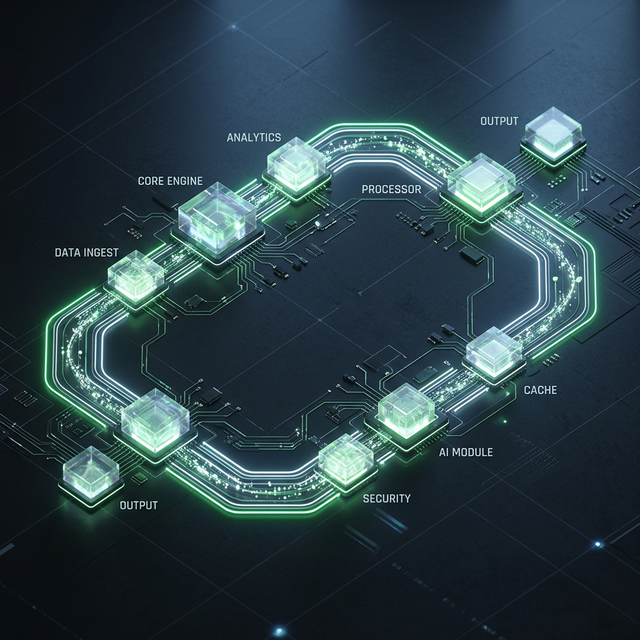
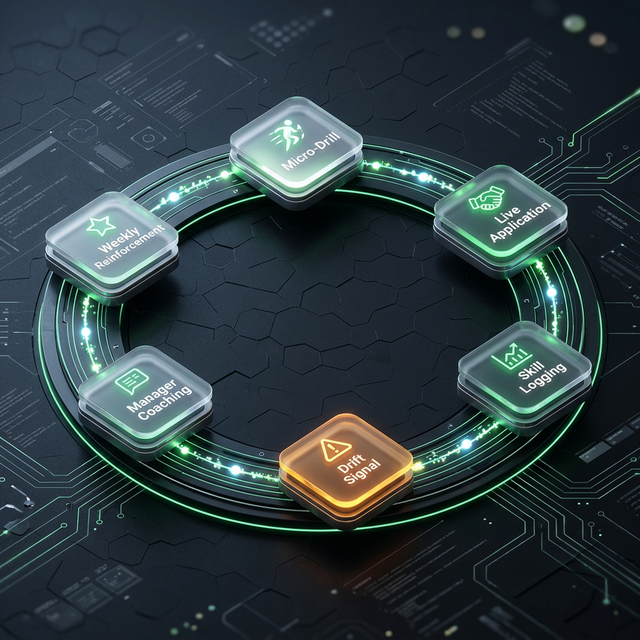
UI: Finalized reinforcement system with 3D nodes and integrated logic

diff --git a/src/pages/Home.tsx b/src/pages/Home.tsx
@@ -1,6 +1,6 @@
 import React, { useState } from 'react';
 import { motion, AnimatePresence } from 'framer-motion';
-import { ChevronRight } from 'lucide-react';
+import { ChevronRight, AlertTriangle } from 'lucide-react';
 import { Link } from 'react-router-dom';
 import Navigation from '../components/Navigation';
 import Footer from '../components/Footer';
@@ -326,6 +326,10 @@ const Home: React.FC = () => {
                             Training events don’t<br />create <span style={{ color: 'rgba(255,255,255,0.2)' }}>consistency.</span>
                         </motion.h2>
                         <h2 style={{ fontSize: 'clamp(3rem, 6vw, 5.5rem)', color: 'var(--logo-green)', marginTop: '0.8rem' }}>Reinforcement does.</h2>
+                        <p style={{ marginTop: '2.5rem', color: 'rgba(255,255,255,0.6)', fontSize: '1.2rem', letterSpacing: '0.01em', maxWidth: '850px', margin: '2.5rem auto 0', lineHeight: 1.5 }}>
+                            Consistency is not a personality trait. <br />
+                            <span style={{ color: '#fff', fontWeight: 600 }}>It is engineered through repetition, measurement, and correction.</span>
+                        </p>
                     </div>
 
                     <div className="mobile-stack" style={{ display: 'grid', gridTemplateColumns: 'repeat(auto-fit, minmax(320px, 1fr))', gap: '4rem', alignItems: 'start' }}>
@@ -333,12 +337,12 @@ const Home: React.FC = () => {
                             <div style={{ position: 'absolute', top: '0', left: '0', width: '100%', height: '100%', background: 'radial-gradient(circle at 50% 50%, rgba(102, 184, 72, 0.1) 0%, transparent 70%)', filter: 'blur(40px)', zIndex: 1 }} />
                             <div style={{ position: 'relative', zIndex: 10, padding: '1.5rem', border: '1px solid rgba(255,255,255,0.1)', background: 'rgba(255,255,255,0.02)', backdropFilter: 'blur(5px)' }}>
                                 <p style={{ fontSize: '0.62rem', fontWeight: 800, color: 'rgba(255,255,255,0.4)', textTransform: 'uppercase', letterSpacing: '0.2em', marginBottom: '1.5rem' }}>
-                                    System Architecture // Control Loop v3.2
+                                    System Architecture // The Reinforcement System v4.0
                                 </p>
                                 <img
                                     src="/reinforcement-system.png"
-                                    alt="The Reinforcement System high-fidelity 3D architecture"
-                                    style={{ width: '100%', display: 'block', borderRadius: '4px', filter: 'contrast(1.1) brightness(1.1)' }}
+                                    alt="The Reinforcement System: Micro-Drill, Live Application, Skill Logging, Drift Signal, Manager Coaching, and Weekly Reinforcement loop"
+                                    style={{ width: '100%', display: 'block', borderRadius: '4px', filter: 'contrast(1.05) brightness(1.05)' }}
                                 />
                             </div>
                         </div>
@@ -353,13 +357,16 @@ const Home: React.FC = () => {
                             </div>
                             <div style={{ display: 'flex', flexDirection: 'column', gap: '1.4rem' }}>
                                 {[
-                                    { title: "Daily Execution Layer", body: "Micro-drills and live-floor reps reinforce greeting, discovery, handoff, and follow-up standards." },
-                                    { title: "Behavior Logging Layer", body: "Each completed rep is time-stamped so managers can see completion, consistency, and role-level gaps." },
-                                    { title: "Drift Detection Layer", body: "The system flags repeat misses and declining behaviors before CSI and gross are impacted." },
-                                    { title: "Coaching Trigger Layer", body: "Manager prompts convert drift alerts into scheduled corrections and documented follow-through." }
+                                    { title: "Daily Execution Layer", body: "Focuses on Micro-Drills and Live Application reps conducted directly on the floor." },
+                                    { title: "Behavior Logging Layer", body: "Every completed rep is logged so managers track Skill Logging and behavior durability." },
+                                    { title: "Drift Detection Layer", body: "The system surfaces the Drift Signal immediately when standards deviate from the baseline.", highlight: true },
+                                    { title: "Governance & Support", body: "Triggers convert metrics into Manager Coaching and Weekly Reinforcement loops." }
                                 ].map((feature, i) => (
-                                    <div key={i} style={{ borderTop: i === 0 ? '1px solid rgba(255,255,255,0.12)' : '1px solid rgba(255,255,255,0.08)', paddingTop: '1rem' }}>
-                                        <h4 style={{ fontSize: '0.78rem', fontWeight: 800, color: 'rgba(255,255,255,0.72)', textTransform: 'uppercase', letterSpacing: '0.14em', marginBottom: '0.5rem' }}>{feature.title}</h4>
+                                    <div key={i} style={{ borderTop: i === 0 ? '1px solid rgba(255,255,255,0.12)' : '1px solid rgba(255,255,255,0.08)', paddingTop: '1rem', position: 'relative' }}>
+                                        <h4 style={{ fontSize: '0.78rem', fontWeight: 800, color: feature.highlight ? '#fbbf24' : 'rgba(255,255,255,0.72)', textTransform: 'uppercase', letterSpacing: '0.14em', marginBottom: '0.5rem', display: 'flex', alignItems: 'center', gap: '0.5rem' }}>
+                                            {feature.highlight && <AlertTriangle size={14} />}
+                                            {feature.title}
+                                        </h4>
                                         <p style={{ fontSize: '1rem', color: 'rgba(255,255,255,0.62)', lineHeight: 1.55 }}>{feature.body}</p>
                                     </div>
                                 ))}
